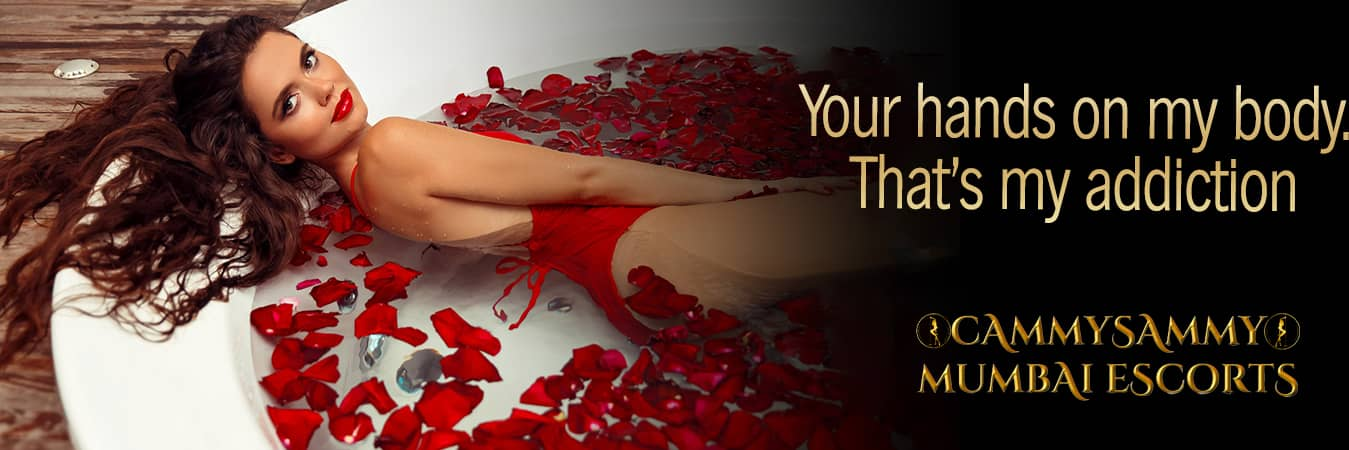
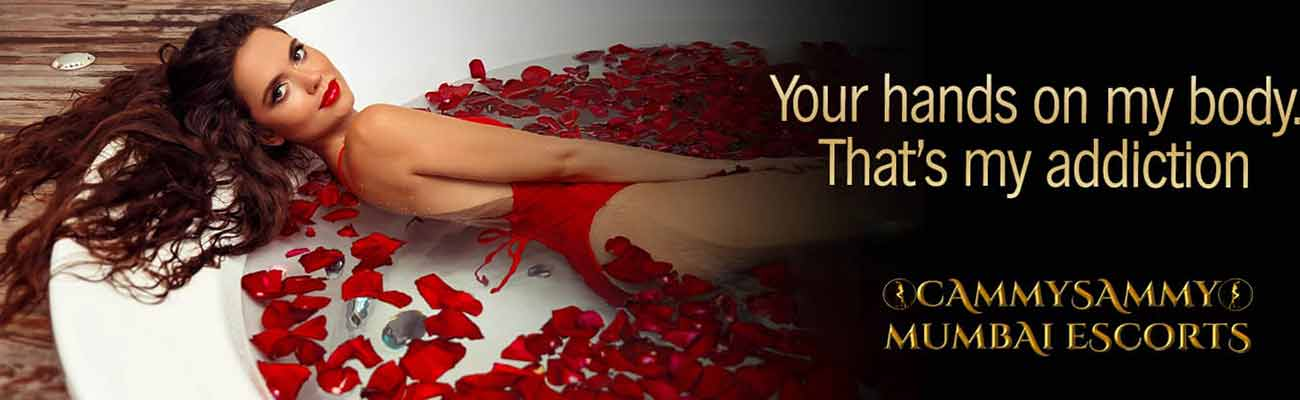
sdf

diff --git a/index.html b/index.html
@@ -155,7 +155,7 @@
           <img
             width="90%"
             height="100%"
-            src="https://www.cammysammy.net/img/slider1.png"
+            src="./img/slider1.jpg"
             alt="Mumbai Escort service"
             title="escort service mumbai"
             class="img_fluid rounded mx_auto"
@@ -2130,7 +2130,7 @@
         <img
           width="100%"
           height="100%"
-          src="https://www.cammysammy.net/img1/Mumbai-escorts-service.jpg"
+          src="./img/Mumbai-escorts-service.jpg"
           alt="Cammysammy mumbai escort service"
           class="img_fluid rounded"
         />

diff --git a/mumbai-escort-vacancy.html b/mumbai-escort-vacancy.html
@@ -215,7 +215,7 @@
             type="text"
             id="email"
             name="email"
-            placeholder="name@domain.tld"
+            placeholder="your@gmail.com"
             required
           />
           <label for="email">E-Mail</label>
